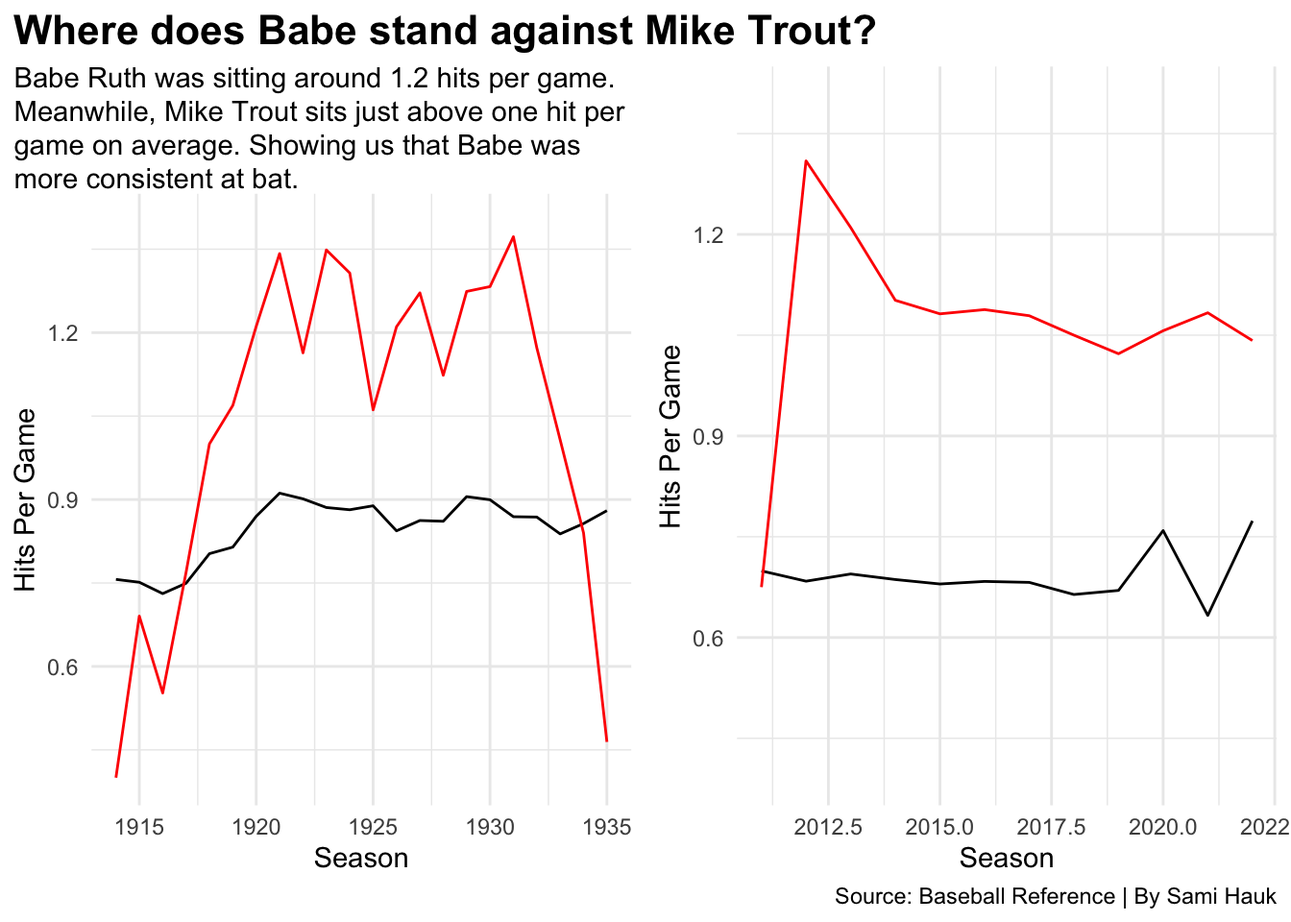
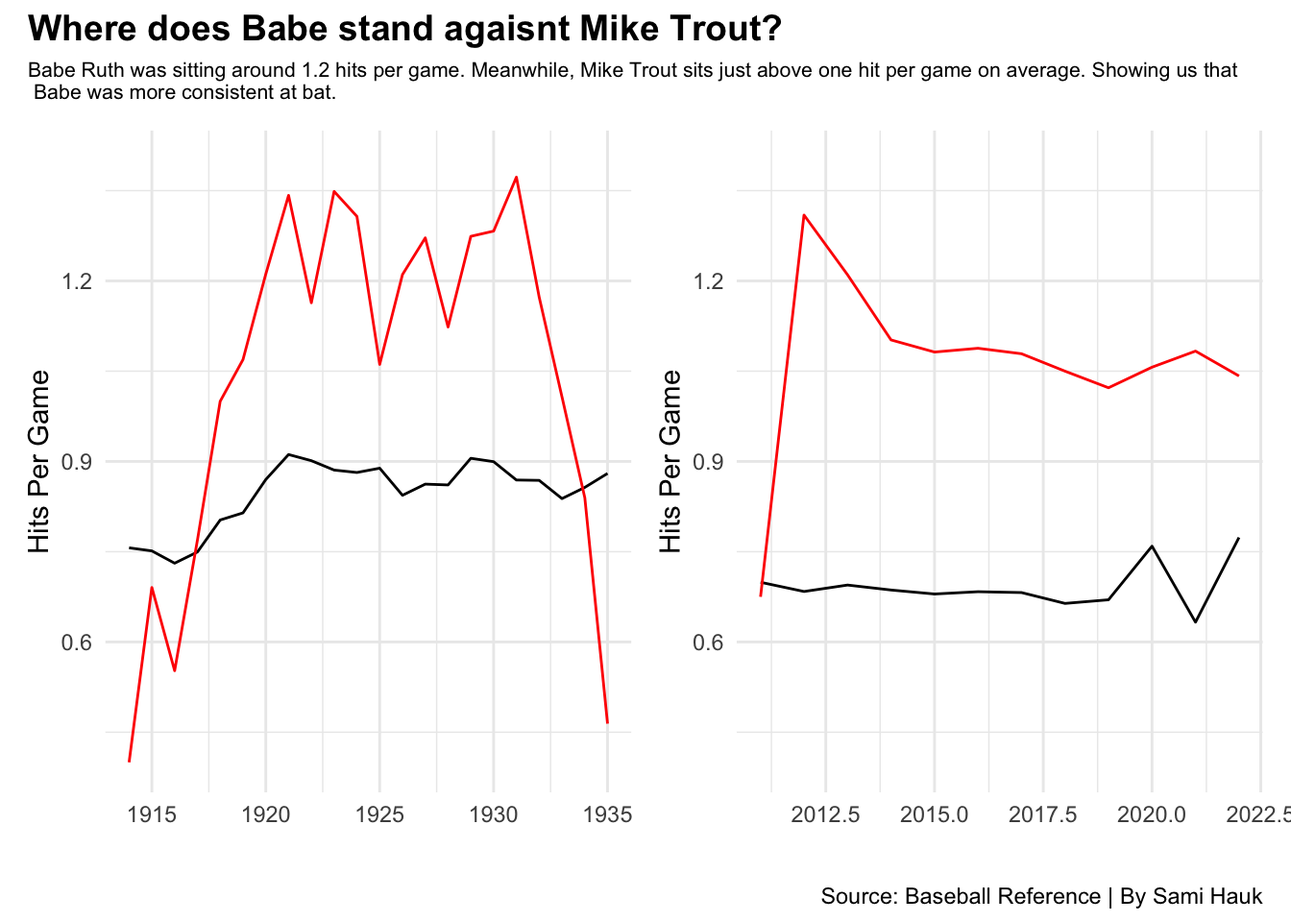
Babe Ruth Project

diff --git a/posts/babe-ruth-would-not-be-the-best-in-todays-mlb/index.html b/posts/babe-ruth-would-not-be-the-best-in-todays-mlb/index.html
@@ -217,7 +217,7 @@ code span.wa { color: #60a0b0; font-weight: bold; font-style: italic; } /* Warni
 <span id="cb1-3"><a href="#cb1-3" aria-hidden="true" tabindex="-1"></a><span class="fu">library</span>(ggtext)</span>
 <span id="cb1-4"><a href="#cb1-4" aria-hidden="true" tabindex="-1"></a><span class="fu">library</span>(ggrepel)</span>
 <span id="cb1-5"><a href="#cb1-5" aria-hidden="true" tabindex="-1"></a><span class="fu">library</span>(ggbeeswarm)</span>
-<span id="cb1-6"><a href="#cb1-6" aria-hidden="true" tabindex="-1"></a><span class="fu">library</span>(cowplot)</span>
+<span id="cb1-6"><a href="#cb1-6" aria-hidden="true" tabindex="-1"></a><span class="fu">library</span>(patchwork)</span>
 <span id="cb1-7"><a href="#cb1-7" aria-hidden="true" tabindex="-1"></a><span class="fu">set.seed</span>(<span class="dv">1234</span>)</span>
 <span id="cb1-8"><a href="#cb1-8" aria-hidden="true" tabindex="-1"></a></span>
 <span id="cb1-9"><a href="#cb1-9" aria-hidden="true" tabindex="-1"></a>pitching <span class="ot">&lt;-</span> <span class="fu">read_csv</span>(<span class="st">"pitchingavgs.csv"</span>) </span>
@@ -242,7 +242,7 @@ code span.wa { color: #60a0b0; font-weight: bold; font-style: italic; } /* Warni
 <span id="cb1-28"><a href="#cb1-28" aria-hidden="true" tabindex="-1"></a><span class="at">title=</span> <span class="st">"Does Babe Ruth have a cumulative OPS that is better from the players in his time?"</span>,</span>
 <span id="cb1-29"><a href="#cb1-29" aria-hidden="true" tabindex="-1"></a><span class="at">subtitle =</span> <span class="st">"Babe Ruth' cumulative OPS was well above average. With nine seasons above .700, Ruth was outstanding when it comes to his on base percentage and slugging."</span>,</span>
 <span id="cb1-30"><a href="#cb1-30" aria-hidden="true" tabindex="-1"></a><span class="at">caption =</span> <span class="st">"Source: Baseball Reference | By Sami Hauk"</span>,</span>
-<span id="cb1-31"><a href="#cb1-31" aria-hidden="true" tabindex="-1"></a><span class="at">x =</span> <span class="st">"Season"</span>,</span>
+<span id="cb1-31"><a href="#cb1-31" aria-hidden="true" tabindex="-1"></a><span class="at">x =</span> <span class="st">""</span>,</span>
 <span id="cb1-32"><a href="#cb1-32" aria-hidden="true" tabindex="-1"></a><span class="at">y =</span> <span class="st">"Cumulative OPS"</span>,</span>
 <span id="cb1-33"><a href="#cb1-33" aria-hidden="true" tabindex="-1"></a>) <span class="sc">+</span></span>
 <span id="cb1-34"><a href="#cb1-34" aria-hidden="true" tabindex="-1"></a>  <span class="fu">theme_minimal</span>() <span class="sc">+</span></span>
@@ -265,27 +265,31 @@ code span.wa { color: #60a0b0; font-weight: bold; font-style: italic; } /* Warni
 <span id="cb2-3"><a href="#cb2-3" aria-hidden="true" tabindex="-1"></a>  <span class="fu">geom_beeswarm</span>(</span>
 <span id="cb2-4"><a href="#cb2-4" aria-hidden="true" tabindex="-1"></a>    <span class="at">data=</span>bigtimecareer, </span>
 <span id="cb2-5"><a href="#cb2-5" aria-hidden="true" tabindex="-1"></a>    <span class="at">groupOnX=</span><span class="cn">TRUE</span>, </span>
-<span id="cb2-6"><a href="#cb2-6" aria-hidden="true" tabindex="-1"></a>    <span class="fu">aes</span>(<span class="at">x=</span>HR, <span class="at">y=</span>Name), <span class="at">color=</span><span class="st">"red"</span>)</span>
-<span id="cb2-7"><a href="#cb2-7" aria-hidden="true" tabindex="-1"></a></span>
-<span id="cb2-8"><a href="#cb2-8" aria-hidden="true" tabindex="-1"></a>so <span class="ot">&lt;-</span> <span class="fu">ggplot</span>() <span class="sc">+</span> </span>
-<span id="cb2-9"><a href="#cb2-9" aria-hidden="true" tabindex="-1"></a>  <span class="fu">geom_beeswarm</span>(</span>
-<span id="cb2-10"><a href="#cb2-10" aria-hidden="true" tabindex="-1"></a>    <span class="at">data=</span>bigtimecareer, </span>
-<span id="cb2-11"><a href="#cb2-11" aria-hidden="true" tabindex="-1"></a>    <span class="at">groupOnX=</span><span class="cn">TRUE</span>, </span>
-<span id="cb2-12"><a href="#cb2-12" aria-hidden="true" tabindex="-1"></a>    <span class="fu">aes</span>(<span class="at">x=</span>SO, <span class="at">y=</span>Name), <span class="at">color=</span><span class="st">"light blue"</span>)</span>
-<span id="cb2-13"><a href="#cb2-13" aria-hidden="true" tabindex="-1"></a><span class="fu">plot_grid</span>(hr, so)<span class="sc">+</span></span>
-<span id="cb2-14"><a href="#cb2-14" aria-hidden="true" tabindex="-1"></a>  <span class="fu">labs</span>(</span>
-<span id="cb2-15"><a href="#cb2-15" aria-hidden="true" tabindex="-1"></a><span class="at">title=</span> <span class="st">"Where does Babe Ruth statisitcally stand in strike outs and home runs?"</span>,</span>
-<span id="cb2-16"><a href="#cb2-16" aria-hidden="true" tabindex="-1"></a><span class="at">subtitle =</span> <span class="st">"Babe Ruth was an outlier in both. While he was a lower contestant on number of strikeouts, he was ahead on his number of home runs in comparison to the other players."</span>,</span>
-<span id="cb2-17"><a href="#cb2-17" aria-hidden="true" tabindex="-1"></a><span class="at">caption =</span> <span class="st">"Source: Baseball Reference | By Sami Hauk"</span>,</span>
-<span id="cb2-18"><a href="#cb2-18" aria-hidden="true" tabindex="-1"></a><span class="at">x =</span> <span class="st">"HR"</span>,</span>
-<span id="cb2-19"><a href="#cb2-19" aria-hidden="true" tabindex="-1"></a><span class="at">y =</span> <span class="st">"Player"</span>,</span>
-<span id="cb2-20"><a href="#cb2-20" aria-hidden="true" tabindex="-1"></a>) <span class="sc">+</span></span>
-<span id="cb2-21"><a href="#cb2-21" aria-hidden="true" tabindex="-1"></a>  <span class="fu">theme_minimal</span>() <span class="sc">+</span></span>
-<span id="cb2-22"><a href="#cb2-22" aria-hidden="true" tabindex="-1"></a>  <span class="fu">theme</span>(</span>
-<span id="cb2-23"><a href="#cb2-23" aria-hidden="true" tabindex="-1"></a>    <span class="at">plot.subtitle =</span> <span class="fu">element_textbox_simple</span>(),</span>
-<span id="cb2-24"><a href="#cb2-24" aria-hidden="true" tabindex="-1"></a>    <span class="at">plot.title.position =</span> <span class="st">"plot"</span>,</span>
-<span id="cb2-25"><a href="#cb2-25" aria-hidden="true" tabindex="-1"></a>    <span class="at">plot.title =</span> <span class="fu">element_text</span>(<span class="at">size =</span> <span class="dv">14</span>, <span class="at">face =</span> <span class="st">"bold"</span>)</span>
-<span id="cb2-26"><a href="#cb2-26" aria-hidden="true" tabindex="-1"></a>  )</span></code><button title="Copy to Clipboard" class="code-copy-button"><i class="bi"></i></button></pre></div>
+<span id="cb2-6"><a href="#cb2-6" aria-hidden="true" tabindex="-1"></a>    <span class="fu">aes</span>(<span class="at">x=</span>HR, <span class="at">y=</span>Name), <span class="at">color=</span><span class="st">"red"</span>) <span class="sc">+</span></span>
+<span id="cb2-7"><a href="#cb2-7" aria-hidden="true" tabindex="-1"></a>  <span class="fu">labs</span>(</span>
+<span id="cb2-8"><a href="#cb2-8" aria-hidden="true" tabindex="-1"></a>    <span class="at">x=</span><span class="st">"Home Runs"</span>,</span>
+<span id="cb2-9"><a href="#cb2-9" aria-hidden="true" tabindex="-1"></a>    <span class="at">y=</span><span class="st">""</span></span>
+<span id="cb2-10"><a href="#cb2-10" aria-hidden="true" tabindex="-1"></a>  ) <span class="sc">+</span></span>
+<span id="cb2-11"><a href="#cb2-11" aria-hidden="true" tabindex="-1"></a>  <span class="fu">theme_minimal</span>()</span>
+<span id="cb2-12"><a href="#cb2-12" aria-hidden="true" tabindex="-1"></a></span>
+<span id="cb2-13"><a href="#cb2-13" aria-hidden="true" tabindex="-1"></a>so <span class="ot">&lt;-</span> <span class="fu">ggplot</span>() <span class="sc">+</span> </span>
+<span id="cb2-14"><a href="#cb2-14" aria-hidden="true" tabindex="-1"></a>  <span class="fu">geom_beeswarm</span>(</span>
+<span id="cb2-15"><a href="#cb2-15" aria-hidden="true" tabindex="-1"></a>    <span class="at">data=</span>bigtimecareer, </span>
+<span id="cb2-16"><a href="#cb2-16" aria-hidden="true" tabindex="-1"></a>    <span class="at">groupOnX=</span><span class="cn">TRUE</span>, </span>
+<span id="cb2-17"><a href="#cb2-17" aria-hidden="true" tabindex="-1"></a>    <span class="fu">aes</span>(<span class="at">x=</span>SO, <span class="at">y=</span>Name), <span class="at">color=</span><span class="st">"light blue"</span>) <span class="sc">+</span></span>
+<span id="cb2-18"><a href="#cb2-18" aria-hidden="true" tabindex="-1"></a>  <span class="fu">labs</span>(</span>
+<span id="cb2-19"><a href="#cb2-19" aria-hidden="true" tabindex="-1"></a>    <span class="at">x=</span><span class="st">"Home Runs"</span>,</span>
+<span id="cb2-20"><a href="#cb2-20" aria-hidden="true" tabindex="-1"></a>    <span class="at">y=</span><span class="st">""</span></span>
+<span id="cb2-21"><a href="#cb2-21" aria-hidden="true" tabindex="-1"></a>  ) <span class="sc">+</span></span>
+<span id="cb2-22"><a href="#cb2-22" aria-hidden="true" tabindex="-1"></a>  <span class="fu">theme_minimal</span>()</span>
+<span id="cb2-23"><a href="#cb2-23" aria-hidden="true" tabindex="-1"></a></span>
+<span id="cb2-24"><a href="#cb2-24" aria-hidden="true" tabindex="-1"></a>(hr <span class="sc">+</span> so) <span class="sc">+</span></span>
+<span id="cb2-25"><a href="#cb2-25" aria-hidden="true" tabindex="-1"></a>  <span class="fu">plot_annotation</span>(</span>
+<span id="cb2-26"><a href="#cb2-26" aria-hidden="true" tabindex="-1"></a><span class="at">title=</span> <span class="st">"Where does Babe Ruth statisitcally stand in strike outs and home runs?"</span>,</span>
+<span id="cb2-27"><a href="#cb2-27" aria-hidden="true" tabindex="-1"></a><span class="at">subtitle =</span> <span class="st">"Babe Ruth was an outlier in both. While he was a lower contestant on number of strikeouts, he was ahead on his number of home runs</span><span class="sc">\n</span><span class="st"> in comparison to the other players."</span>,</span>
+<span id="cb2-28"><a href="#cb2-28" aria-hidden="true" tabindex="-1"></a><span class="at">caption =</span> <span class="st">"Source: Baseball Reference | By Sami Hauk"</span>,</span>
+<span id="cb2-29"><a href="#cb2-29" aria-hidden="true" tabindex="-1"></a><span class="at">theme =</span> <span class="fu">theme</span>(<span class="at">plot.title =</span> <span class="fu">element_text</span>(<span class="at">size =</span> <span class="dv">14</span>, <span class="at">face =</span> <span class="st">"bold"</span>)) <span class="sc">&amp;</span> <span class="fu">theme</span>(<span class="at">plot.subtitle =</span> <span class="fu">element_text</span>(<span class="at">size=</span><span class="dv">8</span>))</span>
+<span id="cb2-30"><a href="#cb2-30" aria-hidden="true" tabindex="-1"></a>)</span></code><button title="Copy to Clipboard" class="code-copy-button"><i class="bi"></i></button></pre></div>
 </details>
 <div class="cell-output-display">
 <p><img src="index_files/figure-html/unnamed-chunk-2-1.png" class="img-fluid" width="672"></p>
@@ -306,7 +310,7 @@ code span.wa { color: #60a0b0; font-weight: bold; font-style: italic; } /* Warni
 <span id="cb3-8"><a href="#cb3-8" aria-hidden="true" tabindex="-1"></a>  ) <span class="sc">%&gt;%</span></span>
 <span id="cb3-9"><a href="#cb3-9" aria-hidden="true" tabindex="-1"></a>  <span class="fu">mutate</span>(</span>
 <span id="cb3-10"><a href="#cb3-10" aria-hidden="true" tabindex="-1"></a>    <span class="at">HPG =</span> Hits<span class="sc">/</span>Games</span>
-<span id="cb3-11"><a href="#cb3-11" aria-hidden="true" tabindex="-1"></a>  )</span>
+<span id="cb3-11"><a href="#cb3-11" aria-hidden="true" tabindex="-1"></a>  ) </span>
 <span id="cb3-12"><a href="#cb3-12" aria-hidden="true" tabindex="-1"></a></span>
 <span id="cb3-13"><a href="#cb3-13" aria-hidden="true" tabindex="-1"></a>brhpg <span class="ot">&lt;-</span> br <span class="sc">%&gt;%</span> <span class="fu">mutate</span>(<span class="at">HPG =</span> H<span class="sc">/</span>G)</span>
 <span id="cb3-14"><a href="#cb3-14" aria-hidden="true" tabindex="-1"></a></span>
@@ -314,54 +318,44 @@ code span.wa { color: #60a0b0; font-weight: bold; font-style: italic; } /* Warni
 <span id="cb3-16"><a href="#cb3-16" aria-hidden="true" tabindex="-1"></a>  <span class="fu">geom_line</span>(<span class="at">data=</span>bryears, <span class="fu">aes</span>(<span class="at">x=</span>Season, <span class="at">y=</span>HPG), <span class="at">color=</span><span class="st">"black"</span>) <span class="sc">+</span></span>
 <span id="cb3-17"><a href="#cb3-17" aria-hidden="true" tabindex="-1"></a>  <span class="fu">geom_line</span>(<span class="at">data=</span>brhpg, <span class="fu">aes</span>(<span class="at">x=</span>Year, <span class="at">y=</span>HPG), <span class="at">color=</span><span class="st">"red"</span>) <span class="sc">+</span></span>
 <span id="cb3-18"><a href="#cb3-18" aria-hidden="true" tabindex="-1"></a>  <span class="fu">scale_y_continuous</span>(<span class="at">limits =</span> <span class="fu">c</span>(.<span class="dv">4</span>, <span class="fl">1.4</span>)) <span class="sc">+</span></span>
-<span id="cb3-19"><a href="#cb3-19" aria-hidden="true" tabindex="-1"></a><span class="fu">labs</span>(</span>
-<span id="cb3-20"><a href="#cb3-20" aria-hidden="true" tabindex="-1"></a><span class="at">title=</span> <span class="st">"Where does Babe stand against Mike Trout?"</span>,</span>
-<span id="cb3-21"><a href="#cb3-21" aria-hidden="true" tabindex="-1"></a><span class="at">subtitle =</span> <span class="st">"Babe Ruth was sitting around 1.2 hits per game. Meanwhile, Mike Trout sits just above one hit per game on average. Showing us that Babe was more consistent at bat."</span>,</span>
-<span id="cb3-22"><a href="#cb3-22" aria-hidden="true" tabindex="-1"></a><span class="at">caption =</span> <span class="st">""</span>,</span>
-<span id="cb3-23"><a href="#cb3-23" aria-hidden="true" tabindex="-1"></a><span class="at">x =</span> <span class="st">"Season"</span>,</span>
-<span id="cb3-24"><a href="#cb3-24" aria-hidden="true" tabindex="-1"></a><span class="at">y =</span> <span class="st">"Hits Per Game"</span>,</span>
-<span id="cb3-25"><a href="#cb3-25" aria-hidden="true" tabindex="-1"></a>) <span class="sc">+</span></span>
-<span id="cb3-26"><a href="#cb3-26" aria-hidden="true" tabindex="-1"></a>  <span class="fu">theme_minimal</span>() <span class="sc">+</span></span>
-<span id="cb3-27"><a href="#cb3-27" aria-hidden="true" tabindex="-1"></a>  <span class="fu">theme</span>(</span>
-<span id="cb3-28"><a href="#cb3-28" aria-hidden="true" tabindex="-1"></a>    <span class="at">plot.subtitle =</span> <span class="fu">element_textbox_simple</span>(),</span>
-<span id="cb3-29"><a href="#cb3-29" aria-hidden="true" tabindex="-1"></a>    <span class="at">plot.title.position =</span> <span class="st">"plot"</span>,</span>
-<span id="cb3-30"><a href="#cb3-30" aria-hidden="true" tabindex="-1"></a>    <span class="at">plot.title =</span> <span class="fu">element_text</span>(<span class="at">size =</span> <span class="dv">16</span>, <span class="at">face =</span> <span class="st">"bold"</span>)</span>
-<span id="cb3-31"><a href="#cb3-31" aria-hidden="true" tabindex="-1"></a>  )</span>
-<span id="cb3-32"><a href="#cb3-32" aria-hidden="true" tabindex="-1"></a></span>
-<span id="cb3-33"><a href="#cb3-33" aria-hidden="true" tabindex="-1"></a></span>
-<span id="cb3-34"><a href="#cb3-34" aria-hidden="true" tabindex="-1"></a>mtyears <span class="ot">&lt;-</span> hitters <span class="sc">%&gt;%</span> </span>
-<span id="cb3-35"><a href="#cb3-35" aria-hidden="true" tabindex="-1"></a><span class="fu">filter</span>(Season <span class="sc">&gt;=</span> <span class="dv">2011</span> <span class="sc">&amp;</span> Season <span class="sc">&lt;=</span> <span class="dv">2022</span></span>
-<span id="cb3-36"><a href="#cb3-36" aria-hidden="true" tabindex="-1"></a>) <span class="sc">%&gt;%</span></span>
-<span id="cb3-37"><a href="#cb3-37" aria-hidden="true" tabindex="-1"></a>    <span class="fu">group_by</span>(Season) <span class="sc">%&gt;%</span></span>
-<span id="cb3-38"><a href="#cb3-38" aria-hidden="true" tabindex="-1"></a>  <span class="fu">summarize</span>(</span>
-<span id="cb3-39"><a href="#cb3-39" aria-hidden="true" tabindex="-1"></a>    <span class="at">Games =</span> <span class="fu">sum</span>(G),</span>
-<span id="cb3-40"><a href="#cb3-40" aria-hidden="true" tabindex="-1"></a>    <span class="at">Hits =</span> <span class="fu">sum</span>(H)</span>
-<span id="cb3-41"><a href="#cb3-41" aria-hidden="true" tabindex="-1"></a>  ) <span class="sc">%&gt;%</span></span>
-<span id="cb3-42"><a href="#cb3-42" aria-hidden="true" tabindex="-1"></a>  <span class="fu">mutate</span>(</span>
-<span id="cb3-43"><a href="#cb3-43" aria-hidden="true" tabindex="-1"></a>    <span class="at">HPG =</span> Hits<span class="sc">/</span>Games</span>
-<span id="cb3-44"><a href="#cb3-44" aria-hidden="true" tabindex="-1"></a>  )</span>
-<span id="cb3-45"><a href="#cb3-45" aria-hidden="true" tabindex="-1"></a></span>
-<span id="cb3-46"><a href="#cb3-46" aria-hidden="true" tabindex="-1"></a>mthpg <span class="ot">&lt;-</span> hitters <span class="sc">%&gt;%</span> <span class="fu">filter</span>(Name <span class="sc">==</span> <span class="st">"Mike Trout"</span>) <span class="sc">%&gt;%</span> <span class="fu">mutate</span>(<span class="at">HPG =</span> H<span class="sc">/</span>G)</span>
-<span id="cb3-47"><a href="#cb3-47" aria-hidden="true" tabindex="-1"></a></span>
-<span id="cb3-48"><a href="#cb3-48" aria-hidden="true" tabindex="-1"></a>line2 <span class="ot">&lt;-</span> <span class="fu">ggplot</span>() <span class="sc">+</span> </span>
-<span id="cb3-49"><a href="#cb3-49" aria-hidden="true" tabindex="-1"></a>  <span class="fu">geom_line</span>(<span class="at">data=</span>mtyears, <span class="fu">aes</span>(<span class="at">x=</span>Season, <span class="at">y=</span>HPG), <span class="at">color=</span><span class="st">"black"</span>) <span class="sc">+</span></span>
-<span id="cb3-50"><a href="#cb3-50" aria-hidden="true" tabindex="-1"></a>  <span class="fu">geom_line</span>(<span class="at">data=</span>mthpg, <span class="fu">aes</span>(<span class="at">x=</span>Season, <span class="at">y=</span>HPG), <span class="at">color=</span><span class="st">"red"</span>)<span class="sc">+</span></span>
-<span id="cb3-51"><a href="#cb3-51" aria-hidden="true" tabindex="-1"></a>  <span class="fu">scale_y_continuous</span>(<span class="at">limits =</span> <span class="fu">c</span>(.<span class="dv">4</span>, <span class="fl">1.4</span>)) <span class="sc">+</span></span>
-<span id="cb3-52"><a href="#cb3-52" aria-hidden="true" tabindex="-1"></a><span class="fu">labs</span>(</span>
-<span id="cb3-53"><a href="#cb3-53" aria-hidden="true" tabindex="-1"></a><span class="at">title=</span> <span class="st">""</span>,</span>
-<span id="cb3-54"><a href="#cb3-54" aria-hidden="true" tabindex="-1"></a><span class="at">subtitle =</span> <span class="st">""</span>,</span>
-<span id="cb3-55"><a href="#cb3-55" aria-hidden="true" tabindex="-1"></a><span class="at">caption =</span> <span class="st">"Source: Baseball Reference | By Sami Hauk"</span>,</span>
-<span id="cb3-56"><a href="#cb3-56" aria-hidden="true" tabindex="-1"></a><span class="at">x =</span> <span class="st">"Season"</span>,</span>
-<span id="cb3-57"><a href="#cb3-57" aria-hidden="true" tabindex="-1"></a><span class="at">y =</span> <span class="st">"Hits Per Game"</span>,</span>
-<span id="cb3-58"><a href="#cb3-58" aria-hidden="true" tabindex="-1"></a>) <span class="sc">+</span></span>
-<span id="cb3-59"><a href="#cb3-59" aria-hidden="true" tabindex="-1"></a>  <span class="fu">theme_minimal</span>() <span class="sc">+</span></span>
-<span id="cb3-60"><a href="#cb3-60" aria-hidden="true" tabindex="-1"></a>  <span class="fu">theme</span>(</span>
-<span id="cb3-61"><a href="#cb3-61" aria-hidden="true" tabindex="-1"></a>    <span class="at">plot.subtitle =</span> <span class="fu">element_textbox_simple</span>(),</span>
-<span id="cb3-62"><a href="#cb3-62" aria-hidden="true" tabindex="-1"></a>    <span class="at">plot.title.position =</span> <span class="st">"plot"</span>,</span>
-<span id="cb3-63"><a href="#cb3-63" aria-hidden="true" tabindex="-1"></a>    <span class="at">plot.title =</span> <span class="fu">element_text</span>(<span class="at">size =</span> <span class="dv">16</span>, <span class="at">face =</span> <span class="st">"bold"</span>)</span>
-<span id="cb3-64"><a href="#cb3-64" aria-hidden="true" tabindex="-1"></a>  )</span>
-<span id="cb3-65"><a href="#cb3-65" aria-hidden="true" tabindex="-1"></a></span>
-<span id="cb3-66"><a href="#cb3-66" aria-hidden="true" tabindex="-1"></a><span class="fu">plot_grid</span>(line1, line2)</span></code><button title="Copy to Clipboard" class="code-copy-button"><i class="bi"></i></button></pre></div>
+<span id="cb3-19"><a href="#cb3-19" aria-hidden="true" tabindex="-1"></a>  <span class="fu">labs</span>(</span>
+<span id="cb3-20"><a href="#cb3-20" aria-hidden="true" tabindex="-1"></a>    <span class="at">x=</span><span class="st">""</span>,</span>
+<span id="cb3-21"><a href="#cb3-21" aria-hidden="true" tabindex="-1"></a>    <span class="at">y=</span><span class="st">"Hits Per Game"</span></span>
+<span id="cb3-22"><a href="#cb3-22" aria-hidden="true" tabindex="-1"></a>  ) <span class="sc">+</span></span>
+<span id="cb3-23"><a href="#cb3-23" aria-hidden="true" tabindex="-1"></a>  <span class="fu">theme_minimal</span>()</span>
+<span id="cb3-24"><a href="#cb3-24" aria-hidden="true" tabindex="-1"></a></span>
+<span id="cb3-25"><a href="#cb3-25" aria-hidden="true" tabindex="-1"></a></span>
+<span id="cb3-26"><a href="#cb3-26" aria-hidden="true" tabindex="-1"></a>mtyears <span class="ot">&lt;-</span> hitters <span class="sc">%&gt;%</span> </span>
+<span id="cb3-27"><a href="#cb3-27" aria-hidden="true" tabindex="-1"></a><span class="fu">filter</span>(Season <span class="sc">&gt;=</span> <span class="dv">2011</span> <span class="sc">&amp;</span> Season <span class="sc">&lt;=</span> <span class="dv">2022</span></span>
+<span id="cb3-28"><a href="#cb3-28" aria-hidden="true" tabindex="-1"></a>) <span class="sc">%&gt;%</span></span>
+<span id="cb3-29"><a href="#cb3-29" aria-hidden="true" tabindex="-1"></a>    <span class="fu">group_by</span>(Season) <span class="sc">%&gt;%</span></span>
+<span id="cb3-30"><a href="#cb3-30" aria-hidden="true" tabindex="-1"></a>  <span class="fu">summarize</span>(</span>
+<span id="cb3-31"><a href="#cb3-31" aria-hidden="true" tabindex="-1"></a>    <span class="at">Games =</span> <span class="fu">sum</span>(G),</span>
+<span id="cb3-32"><a href="#cb3-32" aria-hidden="true" tabindex="-1"></a>    <span class="at">Hits =</span> <span class="fu">sum</span>(H)</span>
+<span id="cb3-33"><a href="#cb3-33" aria-hidden="true" tabindex="-1"></a>  ) <span class="sc">%&gt;%</span></span>
+<span id="cb3-34"><a href="#cb3-34" aria-hidden="true" tabindex="-1"></a>  <span class="fu">mutate</span>(</span>
+<span id="cb3-35"><a href="#cb3-35" aria-hidden="true" tabindex="-1"></a>    <span class="at">HPG =</span> Hits<span class="sc">/</span>Games</span>
+<span id="cb3-36"><a href="#cb3-36" aria-hidden="true" tabindex="-1"></a>  )</span>
+<span id="cb3-37"><a href="#cb3-37" aria-hidden="true" tabindex="-1"></a></span>
+<span id="cb3-38"><a href="#cb3-38" aria-hidden="true" tabindex="-1"></a>mthpg <span class="ot">&lt;-</span> hitters <span class="sc">%&gt;%</span> <span class="fu">filter</span>(Name <span class="sc">==</span> <span class="st">"Mike Trout"</span>) <span class="sc">%&gt;%</span> <span class="fu">mutate</span>(<span class="at">HPG =</span> H<span class="sc">/</span>G)</span>
+<span id="cb3-39"><a href="#cb3-39" aria-hidden="true" tabindex="-1"></a></span>
+<span id="cb3-40"><a href="#cb3-40" aria-hidden="true" tabindex="-1"></a>line2 <span class="ot">&lt;-</span> <span class="fu">ggplot</span>() <span class="sc">+</span> </span>
+<span id="cb3-41"><a href="#cb3-41" aria-hidden="true" tabindex="-1"></a>  <span class="fu">geom_line</span>(<span class="at">data=</span>mtyears, <span class="fu">aes</span>(<span class="at">x=</span>Season, <span class="at">y=</span>HPG), <span class="at">color=</span><span class="st">"black"</span>) <span class="sc">+</span></span>
+<span id="cb3-42"><a href="#cb3-42" aria-hidden="true" tabindex="-1"></a>  <span class="fu">geom_line</span>(<span class="at">data=</span>mthpg, <span class="fu">aes</span>(<span class="at">x=</span>Season, <span class="at">y=</span>HPG), <span class="at">color=</span><span class="st">"red"</span>)<span class="sc">+</span></span>
+<span id="cb3-43"><a href="#cb3-43" aria-hidden="true" tabindex="-1"></a>  <span class="fu">scale_y_continuous</span>(<span class="at">limits =</span> <span class="fu">c</span>(.<span class="dv">4</span>, <span class="fl">1.4</span>)) <span class="sc">+</span></span>
+<span id="cb3-44"><a href="#cb3-44" aria-hidden="true" tabindex="-1"></a> <span class="fu">labs</span>(</span>
+<span id="cb3-45"><a href="#cb3-45" aria-hidden="true" tabindex="-1"></a>    <span class="at">x=</span><span class="st">""</span>,</span>
+<span id="cb3-46"><a href="#cb3-46" aria-hidden="true" tabindex="-1"></a>    <span class="at">y=</span><span class="st">"Hits Per Game"</span></span>
+<span id="cb3-47"><a href="#cb3-47" aria-hidden="true" tabindex="-1"></a>  ) <span class="sc">+</span></span>
+<span id="cb3-48"><a href="#cb3-48" aria-hidden="true" tabindex="-1"></a>  <span class="fu">theme_minimal</span>()</span>
+<span id="cb3-49"><a href="#cb3-49" aria-hidden="true" tabindex="-1"></a></span>
+<span id="cb3-50"><a href="#cb3-50" aria-hidden="true" tabindex="-1"></a>(line1 <span class="sc">+</span> line2) <span class="sc">+</span></span>
+<span id="cb3-51"><a href="#cb3-51" aria-hidden="true" tabindex="-1"></a>  <span class="fu">plot_annotation</span>(</span>
+<span id="cb3-52"><a href="#cb3-52" aria-hidden="true" tabindex="-1"></a><span class="at">title=</span> <span class="st">"Where does Babe stand agaisnt Mike Trout?"</span>,</span>
+<span id="cb3-53"><a href="#cb3-53" aria-hidden="true" tabindex="-1"></a><span class="at">subtitle =</span> <span class="st">"Babe Ruth was sitting around 1.2 hits per game. Meanwhile, Mike Trout sits just above one hit per game on average. Showing us that</span><span class="sc">\n</span><span class="st"> Babe was more consistent at bat."</span>,</span>
+<span id="cb3-54"><a href="#cb3-54" aria-hidden="true" tabindex="-1"></a><span class="at">caption =</span> <span class="st">"Source: Baseball Reference | By Sami Hauk"</span>,</span>
+<span id="cb3-55"><a href="#cb3-55" aria-hidden="true" tabindex="-1"></a><span class="at">theme =</span> <span class="fu">theme</span>(<span class="at">plot.title =</span> <span class="fu">element_text</span>(<span class="at">size =</span> <span class="dv">14</span>, <span class="at">face =</span> <span class="st">"bold"</span>)) <span class="sc">&amp;</span> <span class="fu">theme</span>(<span class="at">plot.subtitle =</span> <span class="fu">element_text</span>(<span class="at">size=</span><span class="dv">8</span>))</span>
+<span id="cb3-56"><a href="#cb3-56" aria-hidden="true" tabindex="-1"></a>)</span></code><button title="Copy to Clipboard" class="code-copy-button"><i class="bi"></i></button></pre></div>
 </details>
 <div class="cell-output-display">
 <p><img src="index_files/figure-html/unnamed-chunk-3-1.png" class="img-fluid" width="672"></p>
@@ -376,39 +370,28 @@ code span.wa { color: #60a0b0; font-weight: bold; font-style: italic; } /* Warni
 <span id="cb4-3"><a href="#cb4-3" aria-hidden="true" tabindex="-1"></a>  <span class="fu">scale_x_continuous</span>(<span class="at">limits =</span> <span class="fu">c</span>(<span class="fl">0.0</span>, <span class="dv">600</span>)) <span class="sc">+</span></span>
 <span id="cb4-4"><a href="#cb4-4" aria-hidden="true" tabindex="-1"></a>  <span class="fu">scale_y_continuous</span>(<span class="at">limits =</span> <span class="fu">c</span>(<span class="fl">0.0</span>, <span class="fl">0.6</span>)) <span class="sc">+</span></span>
 <span id="cb4-5"><a href="#cb4-5" aria-hidden="true" tabindex="-1"></a>  <span class="fu">labs</span>(</span>
-<span id="cb4-6"><a href="#cb4-6" aria-hidden="true" tabindex="-1"></a><span class="at">title=</span> <span class="st">"Was there a difference in At Bats and On Base Percentage vs Babe Ruth?"</span>,</span>
-<span id="cb4-7"><a href="#cb4-7" aria-hidden="true" tabindex="-1"></a><span class="at">subtitle =</span> <span class="st">"Babe Ruth held a stronger On Base Percentage against the highest players in his time. He also was able to achieve more at bats throughout his career since he was able to consistently get on base."</span>,</span>
-<span id="cb4-8"><a href="#cb4-8" aria-hidden="true" tabindex="-1"></a><span class="at">caption =</span> <span class="st">""</span>,</span>
-<span id="cb4-9"><a href="#cb4-9" aria-hidden="true" tabindex="-1"></a><span class="at">x =</span> <span class="st">"OBP"</span>,</span>
-<span id="cb4-10"><a href="#cb4-10" aria-hidden="true" tabindex="-1"></a><span class="at">y =</span> <span class="st">"AB"</span>,</span>
-<span id="cb4-11"><a href="#cb4-11" aria-hidden="true" tabindex="-1"></a>) <span class="sc">+</span></span>
-<span id="cb4-12"><a href="#cb4-12" aria-hidden="true" tabindex="-1"></a>  <span class="fu">theme_minimal</span>() <span class="sc">+</span></span>
-<span id="cb4-13"><a href="#cb4-13" aria-hidden="true" tabindex="-1"></a>  <span class="fu">theme</span>(</span>
-<span id="cb4-14"><a href="#cb4-14" aria-hidden="true" tabindex="-1"></a>    <span class="at">plot.subtitle =</span> <span class="fu">element_textbox_simple</span>(),</span>
-<span id="cb4-15"><a href="#cb4-15" aria-hidden="true" tabindex="-1"></a>    <span class="at">plot.title.position =</span> <span class="st">"plot"</span>,</span>
-<span id="cb4-16"><a href="#cb4-16" aria-hidden="true" tabindex="-1"></a>    <span class="at">plot.title =</span> <span class="fu">element_text</span>(<span class="at">size =</span> <span class="dv">14</span>, <span class="at">face =</span> <span class="st">"bold"</span>)</span>
-<span id="cb4-17"><a href="#cb4-17" aria-hidden="true" tabindex="-1"></a>  )</span>
-<span id="cb4-18"><a href="#cb4-18" aria-hidden="true" tabindex="-1"></a></span>
-<span id="cb4-19"><a href="#cb4-19" aria-hidden="true" tabindex="-1"></a></span>
-<span id="cb4-20"><a href="#cb4-20" aria-hidden="true" tabindex="-1"></a>scatter2 <span class="ot">&lt;-</span> <span class="fu">ggplot</span>() <span class="sc">+</span> </span>
-<span id="cb4-21"><a href="#cb4-21" aria-hidden="true" tabindex="-1"></a>  <span class="fu">geom_point</span>(<span class="at">data=</span>br, <span class="fu">aes</span>(<span class="at">x=</span>AB, <span class="at">y=</span>OBP), <span class="at">color =</span> <span class="st">"pink"</span>) <span class="sc">+</span></span>
-<span id="cb4-22"><a href="#cb4-22" aria-hidden="true" tabindex="-1"></a>  <span class="fu">scale_x_continuous</span>(<span class="at">limits =</span> <span class="fu">c</span>(<span class="fl">0.0</span>, <span class="dv">600</span>)) <span class="sc">+</span></span>
-<span id="cb4-23"><a href="#cb4-23" aria-hidden="true" tabindex="-1"></a>  <span class="fu">scale_y_continuous</span>(<span class="at">limits =</span> <span class="fu">c</span>(<span class="fl">0.0</span>, <span class="fl">0.6</span>)) <span class="sc">+</span></span>
-<span id="cb4-24"><a href="#cb4-24" aria-hidden="true" tabindex="-1"></a>  <span class="fu">labs</span>(</span>
-<span id="cb4-25"><a href="#cb4-25" aria-hidden="true" tabindex="-1"></a><span class="at">title=</span> <span class="st">""</span>,</span>
-<span id="cb4-26"><a href="#cb4-26" aria-hidden="true" tabindex="-1"></a><span class="at">subtitle =</span> <span class="st">""</span>,</span>
-<span id="cb4-27"><a href="#cb4-27" aria-hidden="true" tabindex="-1"></a><span class="at">caption =</span> <span class="st">"Source: Baseball Reference | By Sami Hauk"</span>,</span>
-<span id="cb4-28"><a href="#cb4-28" aria-hidden="true" tabindex="-1"></a><span class="at">x =</span> <span class="st">"OBP"</span>,</span>
-<span id="cb4-29"><a href="#cb4-29" aria-hidden="true" tabindex="-1"></a><span class="at">y =</span> <span class="st">"AB"</span>,</span>
-<span id="cb4-30"><a href="#cb4-30" aria-hidden="true" tabindex="-1"></a>) <span class="sc">+</span></span>
-<span id="cb4-31"><a href="#cb4-31" aria-hidden="true" tabindex="-1"></a>  <span class="fu">theme_minimal</span>() <span class="sc">+</span></span>
-<span id="cb4-32"><a href="#cb4-32" aria-hidden="true" tabindex="-1"></a>  <span class="fu">theme</span>(</span>
-<span id="cb4-33"><a href="#cb4-33" aria-hidden="true" tabindex="-1"></a>    <span class="at">plot.subtitle =</span> <span class="fu">element_textbox_simple</span>(),</span>
-<span id="cb4-34"><a href="#cb4-34" aria-hidden="true" tabindex="-1"></a>    <span class="at">plot.title.position =</span> <span class="st">"plot"</span>,</span>
-<span id="cb4-35"><a href="#cb4-35" aria-hidden="true" tabindex="-1"></a>    <span class="at">plot.title =</span> <span class="fu">element_text</span>(<span class="at">size =</span> <span class="dv">10</span>, <span class="at">face =</span> <span class="st">"bold"</span>)</span>
-<span id="cb4-36"><a href="#cb4-36" aria-hidden="true" tabindex="-1"></a>  )</span>
-<span id="cb4-37"><a href="#cb4-37" aria-hidden="true" tabindex="-1"></a></span>
-<span id="cb4-38"><a href="#cb4-38" aria-hidden="true" tabindex="-1"></a><span class="fu">plot_grid</span>(scatter1, scatter2)</span></code><button title="Copy to Clipboard" class="code-copy-button"><i class="bi"></i></button></pre></div>
+<span id="cb4-6"><a href="#cb4-6" aria-hidden="true" tabindex="-1"></a>    <span class="at">x=</span><span class="st">"On Base Percentage"</span>,</span>
+<span id="cb4-7"><a href="#cb4-7" aria-hidden="true" tabindex="-1"></a>    <span class="at">y=</span><span class="st">"At Bats"</span></span>
+<span id="cb4-8"><a href="#cb4-8" aria-hidden="true" tabindex="-1"></a>  ) <span class="sc">+</span></span>
+<span id="cb4-9"><a href="#cb4-9" aria-hidden="true" tabindex="-1"></a>  <span class="fu">theme_minimal</span>()</span>
+<span id="cb4-10"><a href="#cb4-10" aria-hidden="true" tabindex="-1"></a></span>
+<span id="cb4-11"><a href="#cb4-11" aria-hidden="true" tabindex="-1"></a>scatter2 <span class="ot">&lt;-</span> <span class="fu">ggplot</span>() <span class="sc">+</span> </span>
+<span id="cb4-12"><a href="#cb4-12" aria-hidden="true" tabindex="-1"></a>  <span class="fu">geom_point</span>(<span class="at">data=</span>br, <span class="fu">aes</span>(<span class="at">x=</span>AB, <span class="at">y=</span>OBP), <span class="at">color =</span> <span class="st">"pink"</span>) <span class="sc">+</span></span>
+<span id="cb4-13"><a href="#cb4-13" aria-hidden="true" tabindex="-1"></a>  <span class="fu">scale_x_continuous</span>(<span class="at">limits =</span> <span class="fu">c</span>(<span class="fl">0.0</span>, <span class="dv">600</span>)) <span class="sc">+</span></span>
+<span id="cb4-14"><a href="#cb4-14" aria-hidden="true" tabindex="-1"></a>  <span class="fu">scale_y_continuous</span>(<span class="at">limits =</span> <span class="fu">c</span>(<span class="fl">0.0</span>, <span class="fl">0.6</span>)) <span class="sc">+</span></span>
+<span id="cb4-15"><a href="#cb4-15" aria-hidden="true" tabindex="-1"></a> <span class="fu">labs</span>(</span>
+<span id="cb4-16"><a href="#cb4-16" aria-hidden="true" tabindex="-1"></a>    <span class="at">x=</span><span class="st">"On Base Percentage"</span>,</span>
+<span id="cb4-17"><a href="#cb4-17" aria-hidden="true" tabindex="-1"></a>    <span class="at">y=</span><span class="st">"At Bats"</span></span>
+<span id="cb4-18"><a href="#cb4-18" aria-hidden="true" tabindex="-1"></a>  ) <span class="sc">+</span></span>
+<span id="cb4-19"><a href="#cb4-19" aria-hidden="true" tabindex="-1"></a>  <span class="fu">theme_minimal</span>()</span>
+<span id="cb4-20"><a href="#cb4-20" aria-hidden="true" tabindex="-1"></a></span>
+<span id="cb4-21"><a href="#cb4-21" aria-hidden="true" tabindex="-1"></a>(scatter1 <span class="sc">+</span> scatter2) <span class="sc">+</span></span>
+<span id="cb4-22"><a href="#cb4-22" aria-hidden="true" tabindex="-1"></a>  <span class="fu">plot_annotation</span>(</span>
+<span id="cb4-23"><a href="#cb4-23" aria-hidden="true" tabindex="-1"></a><span class="at">title=</span> <span class="st">"Was there a difference in At Bats and On Base Percentage vs Babe Ruth?"</span>,</span>
+<span id="cb4-24"><a href="#cb4-24" aria-hidden="true" tabindex="-1"></a><span class="at">subtitle =</span> <span class="st">"Babe Ruth held a stronger On Base Percentage against the highest players in his time. He also was able to achieve more at bats</span><span class="sc">\n</span><span class="st"> throughout his career since he was able to consistently get on base."</span>,</span>
+<span id="cb4-25"><a href="#cb4-25" aria-hidden="true" tabindex="-1"></a><span class="at">caption =</span> <span class="st">"Source: Baseball Reference | By Sami Hauk"</span>,</span>
+<span id="cb4-26"><a href="#cb4-26" aria-hidden="true" tabindex="-1"></a><span class="at">theme =</span> <span class="fu">theme</span>(<span class="at">plot.title =</span> <span class="fu">element_text</span>(<span class="at">size =</span> <span class="dv">13</span>, <span class="at">face =</span> <span class="st">"bold"</span>)) <span class="sc">&amp;</span> <span class="fu">theme</span>(<span class="at">plot.subtitle =</span> <span class="fu">element_text</span>(<span class="at">size=</span><span class="dv">8</span>))</span>
+<span id="cb4-27"><a href="#cb4-27" aria-hidden="true" tabindex="-1"></a>)</span></code><button title="Copy to Clipboard" class="code-copy-button"><i class="bi"></i></button></pre></div>
 </details>
 <div class="cell-output-display">
 <p><img src="index_files/figure-html/unnamed-chunk-4-1.png" class="img-fluid" width="672"></p>

diff --git a/index.html b/index.html
@@ -166,7 +166,7 @@ ul.task-list li input[type="checkbox"] {
 
 <div class="quarto-listing quarto-listing-container-default" id="listing-listing">
 <div class="list quarto-listing-default">
-<div class="quarto-post image-right" data-index="0" data-categories="babe ruth,mlb,baseball" data-listing-date-sort="1681621200000" data-listing-file-modified-sort="1683141930073" data-listing-reading-time-sort="5.575">
+<div class="quarto-post image-right" data-index="0" data-categories="babe ruth,mlb,baseball" data-listing-date-sort="1681621200000" data-listing-file-modified-sort="1683228135780" data-listing-reading-time-sort="5.37">
 <div class="thumbnail">
 <p><a href="./posts/babe-ruth-would-not-be-the-best-in-todays-mlb/index.html"> <img src="./posts/babe-ruth-would-not-be-the-best-in-todays-mlb/image.pmg" class="thumnail-image"> </a></p>
 </div>
